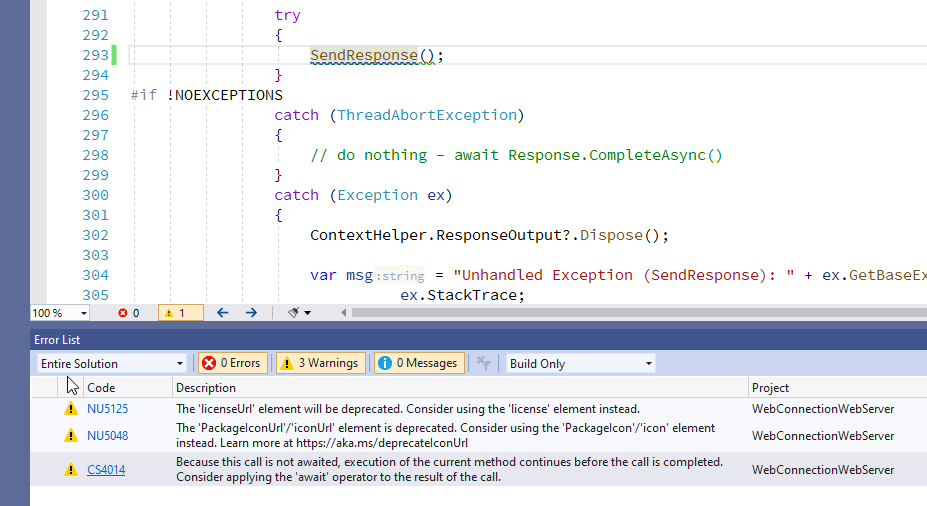
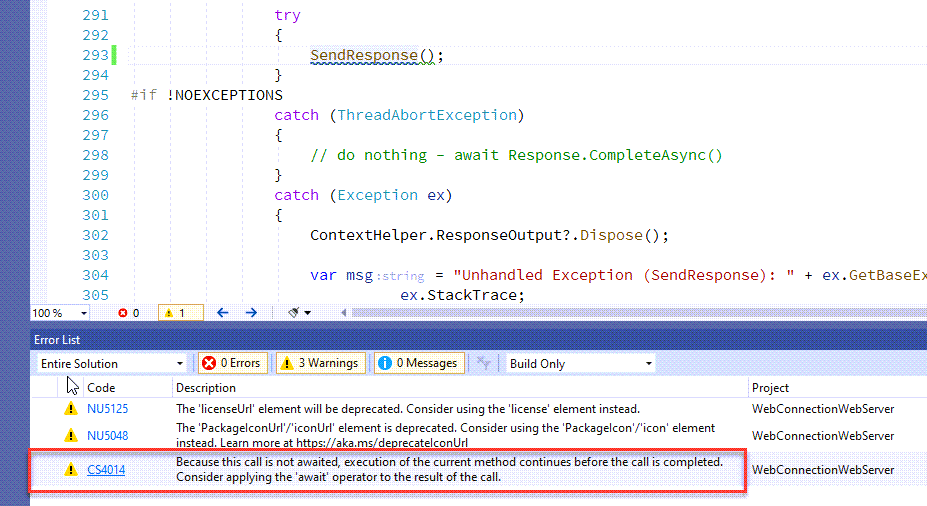
Update DonTGetBittenByMissingAwaitForResponseWriteCodeInMiddleware.md

diff --git a/2020-04/Dont-get-bitten-by-missing-await-for-Response.Write()-Code-in-Middleware/DonTGetBittenByMissingAwaitForResponseWriteCodeInMiddleware.md b/2020-04/Dont-get-bitten-by-missing-await-for-Response.Write()-Code-in-Middleware/DonTGetBittenByMissingAwaitForResponseWriteCodeInMiddleware.md
@@ -1,79 +1,113 @@
 ---
-title: Don't get bitten by missing await for Response.Write() Code in Middleware
+title: Don't get burned by missing await Calls for Async Code in ASP.NET Core Middleware
+abstract: I recently got burned in an upgraded ASP.NET Core server application where a missing `await` statement caused wildly inconsistent and puzzling output failures. While a simple thing to avoid, once introduced it's possible to live with this error for some time before it manifests. In this post I show a scenario where a missing `await` was causing infrequent HTTP response errors, even though the client apparently receives a valid response.
+categories: ASP.NET Core
+keywords: Response.WriteAsync(), await, async
 weblogName: West Wind Web Log
-postDate: 2020-04-01T14:33:48.9553514-10:00
+postId: 1988467
+permalink: https://weblog.west-wind.com/posts/2020/Sep/14/Dont-get-burned-by-missing-await-Calls-for-Async-Code-in-ASPNET-Core-Middleware
+postDate: 2020-09-14T15:04:12.3348388-10:00
 ---
-# Don't get Burned by missing await Calls for Async Code in ASP.NET Core Middleware
+# Don't get burned by missing await Calls for Async Code in ASP.NET Core Middleware
 
-This falls in the category of stupid developer mistakes tnat are difficult to track down. In this post I'll discuss a nasty bug I ran into with my code that I totally misdiagnosed. It refers to an intermittent failure of HTTP requests in a custom middleware component where I would get HTTP errors **even though the actual response apparently was received properly**.
+This post falls into the category of stupid developer mistakes that are difficult to track down. In this post I'll discuss a nasty bug I ran into with my code, and which I totally misdiagnosed at first. It refers to an intermittent failure of HTTP requests in a custom middleware component where I would get HTTP errors **even though the actual response apparently was received properly**.
 
- Check out this request trace in Fiddler:
+Check out this request trace in Fiddler:
 
 ![](HttpFailures.png)
 
-Notice that the response code is a `200` response, but yet it shows with an error icon next to it. Per Eric Lawrence (the original author of Fiddler) I also checked the Session properties:
+Notice that the response code is a `200` response, but yet it shows with an error icon next to it. Per [Eric Lawrence](https://twitter.com/ericlaw) (the original author of Fiddler) I also checked the Session properties:
 
 ![](HttpFailureDetail.png)
 
-which seems to suggest that the response was aborted (`X-ABORTED-WHEN`). But looking at the actual response, it looks like the HTML output is all there and matches the content length. The content looks good, the size is good. It took a while to guess at it: Apparently ASP.NET is cutting the connection before the final output is sent, even though it appears that all bytes have been received per fiddler.
+which seems to suggest that the response was aborted (`X-ABORTED-WHEN`). 
 
-Worse: **it works most of the time - it only fails occasionally** on the same pages, creating the exact same content. Lovely!
+In the browser this page renders... blank. It comes up as a **totally white page** - not as an error, just blank. This happens both with and without Fiddler attached.
 
-### A Legacy Rewrite
-This particular problem was rearing its ugly head in a custom middleware component that interfaces with a **legacy backend application server** with the middleware middle more less serving as a request forwarder. The incoming request data is routed to the application server, which turns around and produces resulting byte stream output which the middleware then pipes into the ASP.NET Core HTTP output stream.  
+Looking at the actual response output in Fiddler, it looks like the HTML output is all there and matches the content length generated on the server. And yes, I logged the actual content size sent to the client and it matches the `Content-Length` header the client sees in Fiddler.
 
-The implementation of this middleware interface was ported from a **classic ASP.NET `IHttpHandler`** and re-built into ASP.NET Core middleware. Surprisingly this process was not too difficult - in fact the vast majority of this ancient .NET codebase originally written in .NET 1.1 (but updated through the years to run on 4.x) **just ported right over into .NET Core**. All the core application server interface features more or less worked using the old classes and data structures.
+What... the... heck???
 
-The middleware then basically re-implements the seams that push the data to the Application Server and receives back the resulting byte data. For the most part the code just ported, but the interface seams where the code hits the ASP.NET Core pipeline ran into the Async requirements of the HTTP output functionality - in ASP.NET Core all output creation has to be sent via Async calls like `WriteAsync()`. This of course resulted in the classic **async cascade** down the chain requiring all methods that send output be made `async`. Not hard, but tedious. And - as I was to find potentially error prone!
+As you can imagine, it took a while and a lot of false starts to find the culprit. Apparently ASP.NET Core is cutting the connection before the final output is sent, even though it appears that all bytes have been received per Fiddler.
 
-### Misdiagnosis after .NET Core 3.1 Failures
-I originally built this middleware for .NET Core 2.2 and it worked without any issues. 
+And... even worse: **it works most of the time - it only fails occasionally** on the same pages, creating the exact same content. Most of the times it works, sometimes it doesn't. A timing issue most likely... Lovely!
 
-Then I upgraded the application .NET Core 3.1 which by itself was a pretty easy process. When I started running the application in .NET Core 3.1 the aforementioned errors started showing up - infrequently which was puzzling. Switching back to .NET Core 2.2 the problems would go away, but when running under 3.1 the errors kept coming back.
+### (a)Wait for me!
+It turns out that in this application I failed to call an output generation method with an `await` statement.
 
-In trying different things one thing I did is move the Response processing to use `IHttpResponseBodyFeature` instead of directly updating the Response stream and that seemed to improve things at first. In fact I thought it was fixed, because the failures now became even less frequent... My assumption was it had something to do with changes in .NET Core 3.x.
-
-### The Real Culprit: A Non-Async call of an Async Method
-It turned out the error was a simple mistake made during the fixing of the **Async Cascade** - I updated one of the methods to an Async method, but **failed to actually call that method with an `await`**. 
+The response writing method in question looks like this:
 
 ```cs
-public async Task SendResponse()
-```
+ public async Task SendResponse()
+ {  
+     // pick up response data, add headers, re-route file transfers etc.
+     ...
+    
+     // eventually writes manipulated bytes into the output stream
+     await Response.Body.WriteAsync(msResponseOutput.ToArray(),
+                    (int) ContentPosition,
+                    (int) msResponseOutput.Length - (int) ContentPosition);
+ }
+ ```
 
-SendResponse then goes on to use async operations to write the incoming data into HTTP output stream using async methods. This of course works fine because the method is async.
-
-However, when calling this method in my mainline code, I forgot to with the `await` keyword:
-
-```cs
-SendResponse();
-```
-
-This actually compiles **and runs** just fine - well, most of the time anyway. On ASP.NET Core 2.2 I never saw any failures either in person or in my logs. Under 3.1 the errors are infrequent, but inconsistently so.
-
-So what's actually happening here? The code works because behind the scenes ASP.NET Core is still sending the output to the client. That's why the full response appears to show up on the client in most cases.
-
-But, because the call is not awaited, there's no guarantee that when the request is finished ASP.NET Core has completed sending the response. I think the failures are so inconsistent because if the timing is right the response probably sends before the entire request processing is complete and if that happens then there's no error. However, if the request completes quicker (or the response output is longer likely) then the problem shows up.
-
-The fix of course was simply to use the `await` clause on the call:
+And the method **should** then be called like this:
 
 ```cs
-await SendResponse();
+await  SendResponse();    // internally eventually does `await Response.WriteAsync(outputBytes)`
 ```
 
-Problem solved.
+But because this is legacy code that was moved from an old HttpHandler I forgot to add the  `await` in this call and left it as it originally was:
 
-### How could this happen?
-So, you might ask how could this happen? The .NET Core C# compiler actually warns of  `await`-not-used errors like this. In Visual Studio you actually get a warning like this:
+```cs
+SendResponse();   // sometimes no workey
+```
+
+This is perfectly valid C# code, although in this case not correct in terms of behavior.
+
+**And that right there is the culprit for the intermittent failures.**
+
+I had this code running for some time on .NET Core 2.1 without issues even without the `await` in place, but in .NET Core 3.1 the intermittent errors kept cropping up. .NET Core 3.1 and later is more strict with its async output generation as requests go through the `IHttpFeatures` pipeline rather than to direct `Response` output which seems to exacerbate the problem.
+
+In most cases the latter code actually works fine, and only **occasionally** would the code fail with the odd errors described above. 
+
+This appears to be a timing issue - it works when the writing completes before ASP.NET shuts down the actual connection, or it fails if the entire response has not been written. Note that no error appears in the ASP.NET application if the latter occurs - it fails silently.
+
+
+### But Rick - don't you look at Warnings?
+Fair question. 
+
+Chances are your Visual Studio, Rider and OmniSharp development environments/tools all should flag this call:
+
+```cs
+SendResponse();   // sometimes no workey
+```
+
+with a **warning in that async call is called without awaiting the result**. And they did. Now that I know where to look,  I could see the warning at the scene of the crime:
+
+![](AwaitWarningInVisualStudio2.png)
+
+or in the warning list:
 
 ![](AwaitWarningInVisualStudio.png)
 
-Yup... clearly operator error. 
+So the tooling can help avoid this error and in most cases that's probably a pretty obvious catch. 
 
-But for me the problem was that this ported project originally had a boatload of warnings (in the hundreds) that I was slowly shlogging through one at a time. This particular `await` warning and a couple of others were lost in the shuffle. But the code ran and seemed to be working perfectly especially in .NET Core 2.2 originally. But alas - cutting corners rarely works out :-)
+In my defense (ha!), I missed this because it's a legacy project that has been ported from a classic ASP.NET `HttpHandler` to an ASP.NET Core middleware component. Because this code is ancient there are tons of `[Obsolete]`, documentation and unused variable warnings etc. and the `SendResponse()` await warning was simply lost in the shuffle of a nearly 200 warnings. I've since fixed that (as you can see in the screen shot above), but it looked quite different before when I was trying to track down the bug.
 
-Yes, I eventually got through the pile of warnings, and by now all of that's cleaned and for sure in a clean project you'd see this warning right away.
+This was made even more insidious by the fact that the original code in .NET Core 2.1 worked just fine even without the `await` call, meaning this error cropped up a year or so after I had originally ported the code and had been running it successfully for that long.
 
-Unfortunately that was way after I tried to trace down the problem in other ways...
+That'll teach me to clean up even legacy code warnings or at least slog through huge numbers of warnings for that one critical one. Right...
+
+### Off Topic: Async Cascade
+I mentioned that this project was a port of an old, old `HttpHandler` moved from a classic ASP.NET application server. This process was surprisingly easy to work through with easily 90%+ of the code migrating straight across even though it includes a ton of legacy technology (COM) integration.
+
+The one thing that didn't 'just work' was the async requirement of ASP.NET Core's output generation. The old code - which originally was written for .NET 1.1 and then moved through generations of .NET through 4.5+ - didn't use async output, so all the code at the middleware API 'seam' needed to be changed to async. It's not too difficult to do but it's a thankless task: Just when you think *"I've got them all!"* there will be another async method you need to convert. And another, and another :smile:
+
+Initially there was one method that required Async access (`SendResponse()`) but then it turned out that the cascade required every single method that touched the HTTP output had to be made async as well as all the methods that call them. 90% of the original HttpHandler code ported without changes **except** for the changes around async conversion.
+
+And that's precisely where this error above was introduced. As I went through and updated calls I missed that one which ironically was the most important one through which most of the output in this middleware flows. 
 
 ### The Moral of the Story
-The moral is this: Make sure your Async methods are actually called asynchronously especially if it deals with ASP.NET Core Response output. Without it the code might work - or it might not depending on timing of the async code running making for some really crazy inconsistent errors.
+The moral of this story is this: Make sure your Async methods are actually called asynchronously especially if it deals with ASP.NET Core Response output. Without it, the code might work - or, it might not! It depending on timing of the async code running making for some really crazy inconsistent errors. Chances are if you screw this up, your IDE will catch this as a warning and hopefully you won't have the error clusterf*ck that I had to obscure the error.
+
+The second moral is directed at myself: Clean up your code, even if it's ported legacy code. I ended up doing this in this project after I figured out the problem and realized that a little housekeeping would have probably saved me a few hours of troubleshooting trying to track down exactly what was happening... well, next time I'll be wiser, right? <small>*(maybe)*</small>

diff --git a/2018-12/Dont-let-ASP.NET-Core-Default-Console-Logging-Slow-your-App-down/DonTLetAspNetCoreDefaultConsoleLoggingSlowYourAppDown.md b/2018-12/Dont-let-ASP.NET-Core-Default-Console-Logging-Slow-your-App-down/DonTLetAspNetCoreDefaultConsoleLoggingSlowYourAppDown.md
@@ -88,6 +88,15 @@ The problem with Console logging is that logging to the console is dreadfully sl
 In .NET Core 2.0 and later improvements were made to provide a queue in front of the console and asynchronously log in a background thread writing out to the actual Console. Although that improved performance some the queue itself is also blocking so there's overhead there as well and performance still is quite slow potentially throttling request throughput.
 
 ### Default Logging Configuration
+The default logging configuration originates in the ASP.NET Core's default configuration which is part of the `WebHost.CreateDefaultBuilder()` configuration during the host startup in `program.cs`:
+
+```csharp
+public static IWebHostBuilder CreateWebHostBuilder(string[] args) =>
+              WebHost.
+                CreateDefaultBuilder(args)
+                .UseStartup<Startup>();
+```                
+
 The good news is if you create new ASP.NET Core 2.x project the default configuration for production does the right thing by setting the logging level to `Warning` in `applicationsettings.json`:
 
 ```json
@@ -113,6 +122,7 @@ The development version in `applicationsettings.Development.json` is more libera
   }
 }
 ```
+
 
 Logging levels are incremental so Trace logs everything, Warning logs Warning, Error and Critical, and None logs... well none. 
 
@@ -145,7 +155,7 @@ Using the configuration settings in `appsetting.json` and setting to `Warning` w
 ### Where does Default Logging Configuration come from
 The default logging configuration originates in the ASP.NET Core's default configuration which is part of the  `WebHost.CreateDefaultBuilder()` configuration during the host startup in `program.cs`:
 
-```cs
+```csharp
 public static IWebHostBuilder CreateWebHostBuilder(string[] args) =>
                 WebHost.CreateDefaultBuilder(args)
                 .UseStartup<Startup>();
@@ -176,7 +186,7 @@ public class ValuesController : ControllerBase
 
     public ValuesController(ILogger<ValuesController> logger)
     {
-        Logger = logger;
+        Logger = logger; 
     }
 
     // GET api/values

diff --git a/2020-08/WPF-Images-from-the-Clipboard-and-Image-Control-Woes/WpfImagesFromTheClipboardAndImageControlWoes.md b/2020-08/WPF-Images-from-the-Clipboard-and-Image-Control-Woes/WpfImagesFromTheClipboardAndImageControlWoes.md
@@ -1,0 +1,35 @@
+---
+title: WPF Images from the Clipboard and Image Control Woes
+weblogName: West Wind Web Log
+postDate: 2020-08-26T09:48:18.6897325-10:00
+customFields:
+  mt_github:
+    key: mt_github
+    value: https://somesite.com
+---
+# WPF Images from the Clipboard and Image Control Woes
+
+
+
+The simplest, but fairly resource intensive workout is to save the image to a stream, then reload the bitmap and ImageSource:
+
+https://thomaslevesque.com/2009/02/05/wpf-paste-an-image-from-the-clipboard/
+
+
+```cs
+using (var bitmap = ClipboardHelper.GetImage())
+{
+    using (var ms = new MemoryStream())
+    {
+        bitmap.Save(ms, ImageFormat.Bmp);
+        bitmap.Dispose();
+
+        using (var b2 = new Bitmap(ms))
+        {
+            image = WindowUtilities.BitmapToBitmapSource(b2);
+        }
+    }
+}
+```              
+
+This is simple and easy to understand, and it works. But it's has **a lot of overhead**. The code dumps the image to memory, creates another new bitmap instance (more memory) and then assigns to the image source. It's all short lived, but results in a huge memory spike especially if you have say full 4k screen shot.

diff --git a/2020-03/Rewriting-a-URL-in-ASP-NET-Core/RewritingAUrlInAspNetCore.md b/2020-03/Rewriting-a-URL-in-ASP-NET-Core/RewritingAUrlInAspNetCore.md
@@ -68,7 +68,7 @@ If you want to do this in ASP.NET Core the easiest way to do this is to use `app
 ### Re-Writing a URL
 Here's how to handle a **Rewrite** operation in `app.Use()` middleware:
 
-```cs
+```csharp
 app.Use(async (context,next) =>
 {
     var url = context.Request.Path.Value;
@@ -88,7 +88,7 @@ This intercepts every incoming request and checks for a URL to rewrite and when 
 
 You can use a similar approach for Redirecting, but the logic is slightly different because a Redirect is a new request and you'll want to terminate the middleware pipeline:
 
-```cs
+```csharp
 app.Use(async (context,next) =>
 {
     var url = context.Request.Path.Value;

diff --git a/2020-08/Medium-Test-Post/MediumTestPost.md b/2020-08/Medium-Test-Post/MediumTestPost.md
@@ -1,0 +1,22 @@
+---
+title: Medium Test Post
+keywords: Test
+weblogName: Medium Markdown Monster Blog
+postDate: 2020-08-20T12:18:02.0295389-10:00
+---
+# Medium Test Post
+
+This is a quick test of a post to medium.
+
+
+Embed an **image**:
+
+![](banner.png)
+
+
+Some code:  
+
+```csharp
+var  x = 1;
+x++;
+```

diff --git a/2020-08/DotnetTools/DotnetTools.md b/2020-08/DotnetTools/DotnetTools.md
@@ -12,6 +12,7 @@ customFields:
   mt_githuburl:
     key: mt_githuburl
     value: https://github.com/RickStrahl/BlogPosts/blob/master/2020-08/DotnetTools/DotnetTools.md
+extraValue1: Extra Value1
 ---
 # Using .NET Core Tools to Create Reusable and Shareable Tools & Apps
 
